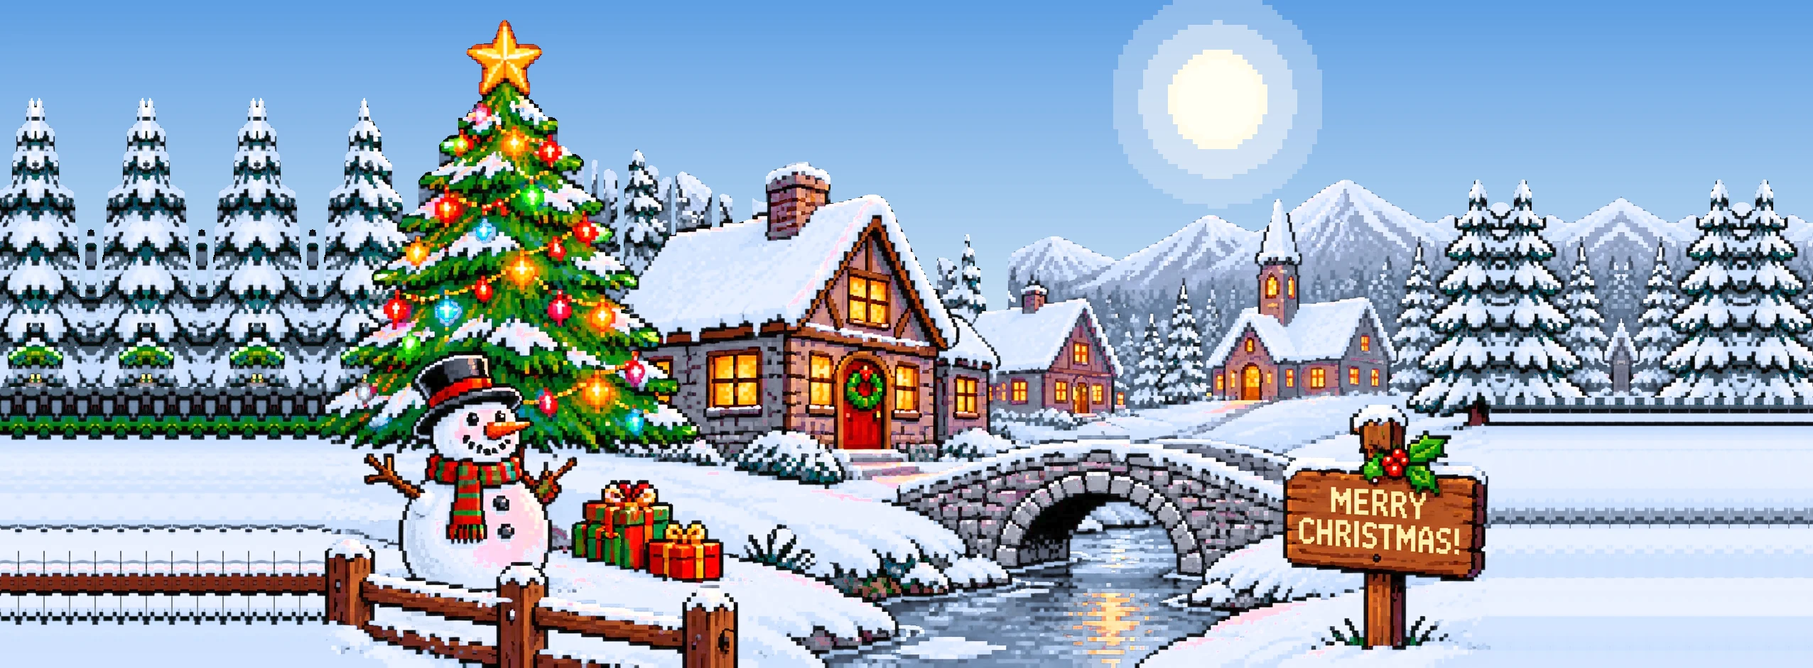
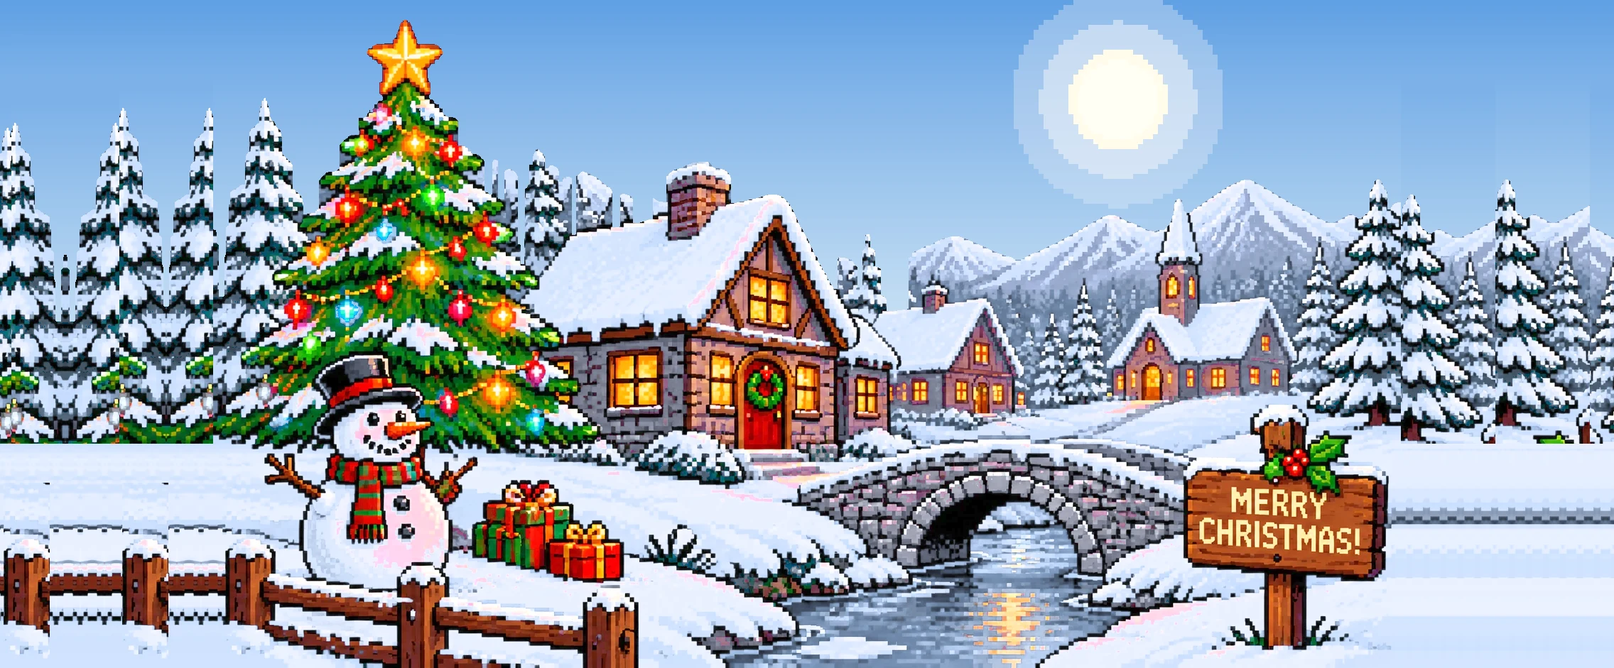
Narrower, less uniform woods and fence at the sides, no dark line on the right, more room above the text in landscape

diff --git a/assets/village/spots.js b/assets/village/spots.js
@@ -1,1 +1,1 @@
-window.SPOTS={"bulbs":[[724,202,"#fcad0d"],[764,212,"#f61e0b"],[627,281,"#f71108"],[629,296,"#fa5c0b"],[708,296,"#f6250f"],[819,323,"#f52107"],[832,328,"#f91c05"],[592,359,"#f9b40f"],[694,353,"#5991f2"],[787,356,"#f41b19"],[733,383,"#fcb20d"],[687,409,"#f51804"],[677,411,"#fd5e1a"],[887,421,"#8193f9"],[681,417,"#f71403"],[558,439,"#f71806"],[833,427,"#fcc51b"],[847,446,"#faa10b"],[780,440,"#ec104f"],[796,438,"#f31235"],[847,469,"#f7ab1b"],[717,481,"#7287f5"],[934,514,"#f5b317"],[839,551,"#fbae0e"],[874,526,"#5fa3ef"],[664,540,"#f43901"],[934,560,"#f5ab11"],[778,570,"#f00b0b"],[483,579,"#7593f8"],[536,589,"#36a6f3"],[708,601,"#f6560b"]],"windows":[[571,333,21,36],[1785,391,12,25],[1814,391,6,24],[1197,395,21,24],[1226,396,19,28],[1197,423,21,30],[1226,428,18,27],[1917,475,8,19],[1756,480,6,15],[1514,486,15,25],[1039,501,25,31],[1009,502,23,31],[1143,502,25,30],[1132,515,6,12],[1250,515,35,29],[1754,517,18,28],[1847,521,16,23],[1901,520,11,21],[1931,521,9,22],[1733,523,5,22],[1812,522,7,22],[1783,526,6,14],[1714,529,7,19],[1114,533,6,18],[1348,535,9,18],[1362,537,9,17],[1039,539,25,31],[1128,539,39,30],[1428,539,15,25],[1487,539,13,24],[1010,540,22,30],[1411,541,4,23],[1537,543,13,22],[1510,547,7,18],[1262,550,22,27],[1573,555,8,15],[1348,558,9,25],[1362,559,13,26]],"stars":[[486,22,5],[752,22,4],[853,22,4],[928,25,10],[951,21,3],[1206,28,15],[1329,28,15],[1442,22,5],[1559,22,4],[1593,26,10],[1956,22,5],[2060,27,14],[797,28,14],[558,32,15],[634,28,5],[1035,32,13],[1384,28,4],[1951,27,4],[1960,27,4],[1137,34,13],[1507,33,13],[983,45,6],[1090,45,5],[1405,45,4],[1412,51,4],[2018,56,14],[836,57,5],[829,61,4],[535,63,5],[787,64,6],[1011,70,3],[665,71,3],[1254,77,14],[1464,77,14],[613,77,4],[1975,91,13],[1398,105,14],[2034,106,5],[1270,113,5],[1512,118,6],[628,120,7],[512,137,7],[1331,138,13],[1975,143,6],[1453,146,7],[1933,155,14],[1206,155,6],[1250,154,6],[522,166,5],[928,175,12],[967,172,5],[1524,173,5],[529,177,3],[854,178,6],[949,186,5],[537,190,9],[896,199,22],[575,202,4],[796,206,3],[1862,220,6],[1223,221,4],[908,225,5],[1019,226,6],[1479,227,6],[550,229,3],[1015,231,5],[553,237,5],[588,236,5],[2079,245,17],[964,242,4],[1034,242,3],[2043,243,5],[1558,252,11],[1996,256,5],[2072,261,4],[1002,268,4],[1010,268,5],[1236,274,5],[2015,276,5],[2064,277,7],[1798,278,5],[566,283,9],[1008,281,5],[1201,279,5],[1245,279,3],[1841,279,4],[1011,286,5],[1614,287,6],[581,298,4],[2046,301,8],[1309,308,9],[1693,304,4],[1049,309,6],[1723,309,4],[1412,316,6],[1560,316,5],[1737,314,4],[1778,321,7],[1361,324,10],[1565,322,6],[1749,320,5],[1652,327,4],[1493,333,5],[1365,335,5],[1507,339,4],[1520,344,5],[1619,344,4],[1533,350,5],[1286,356,5],[1315,357,7],[1373,357,6],[1547,356,6],[1592,356,4],[1567,363,3],[1292,368,4],[1316,370,7],[1347,370,6],[1381,386,9],[1410,396,4],[1386,405,15],[1417,413,6],[1389,424,6]],"water":[[1548,714],[1555,714],[1562,714],[1569,714],[1576,714],[1583,714],[1590,714],[1534,721],[1541,721],[1548,721],[1555,721],[1562,721],[1569,721],[1576,721],[1583,721],[1590,721],[1597,721],[1527,728],[1534,728],[1541,728],[1548,728],[1555,728],[1562,728],[1569,728],[1576,728],[1583,728],[1590,728],[1597,728],[1604,728],[1611,728],[1527,735],[1534,735],[1541,735],[1548,735],[1555,735],[1562,735],[1569,735],[1576,735],[1583,735],[1590,735],[1597,735],[1604,735],[1611,735],[1618,735],[1520,742],[1527,742],[1534,742],[1541,742],[1548,742],[1618,742],[1625,742],[1506,749],[1541,749],[1548,749],[1555,749],[1562,749],[1569,749],[1576,749],[1583,749],[1590,749],[1597,749],[1604,749],[1611,749],[1618,749],[1625,749],[1632,749],[1639,749],[1464,756],[1513,756],[1520,756],[1527,756],[1534,756],[1541,756],[1548,756],[1555,756],[1562,756],[1569,756],[1576,756],[1583,756],[1590,756],[1597,756],[1604,756],[1611,756],[1618,756],[1625,756],[1632,756],[1639,756],[1499,763],[1506,763],[1513,763],[1520,763],[1527,763],[1534,763],[1541,763],[1548,763],[1555,763],[1562,763],[1569,763],[1576,763],[1583,763],[1590,763],[1597,763],[1604,763],[1611,763],[1618,763],[1625,763],[1632,763],[1639,763],[1646,763],[1464,770],[1478,770],[1485,770],[1499,770],[1506,770],[1513,770],[1520,770],[1527,770],[1534,770],[1541,770],[1548,770],[1555,770],[1562,770],[1569,770],[1576,770],[1583,770],[1590,770],[1597,770],[1604,770],[1611,770],[1618,770],[1625,770],[1632,770],[1639,770],[1646,770],[1674,770],[1681,770],[1436,777],[1443,777],[1450,777],[1457,777],[1464,777],[1471,777],[1492,777],[1499,777],[1506,777],[1513,777],[1520,777],[1527,777],[1534,777],[1541,777],[1548,777],[1555,777],[1562,777],[1583,777],[1590,777],[1597,777],[1604,777],[1611,777],[1618,777],[1625,777],[1632,777],[1639,777],[1646,777],[1653,777],[1667,777],[1695,777],[1415,784],[1422,784],[1429,784],[1436,784],[1443,784],[1450,784],[1457,784],[1464,784],[1471,784],[1485,784],[1492,784],[1499,784],[1506,784],[1513,784],[1520,784],[1527,784],[1534,784],[1541,784],[1548,784],[1555,784],[1562,784],[1597,784],[1604,784],[1611,784],[1618,784],[1625,784],[1632,784],[1639,784],[1646,784],[1653,784],[1702,784],[1709,784],[1394,791],[1401,791],[1408,791],[1415,791],[1422,791],[1429,791],[1443,791],[1471,791],[1478,791],[1485,791],[1492,791],[1499,791],[1506,791],[1513,791],[1520,791],[1527,791],[1534,791],[1541,791],[1548,791],[1555,791],[1562,791],[1569,791],[1576,791],[1583,791],[1590,791],[1597,791],[1604,791],[1611,791],[1618,791],[1625,791],[1632,791],[1639,791],[1646,791],[1653,791],[1674,791],[1681,791],[1688,791],[1702,791],[1380,798],[1387,798],[1394,798],[1401,798],[1408,798],[1443,798],[1450,798],[1457,798],[1464,798],[1471,798],[1478,798],[1499,798],[1506,798],[1513,798],[1520,798],[1527,798],[1534,798],[1541,798],[1548,798],[1583,798],[1590,798],[1597,798],[1604,798],[1611,798],[1618,798],[1625,798],[1632,798],[1639,798],[1646,798],[1653,798],[1667,798],[1681,798],[1688,798],[1709,798],[1716,798],[1723,798],[1366,805],[1373,805],[1380,805],[1387,805],[1394,805],[1401,805],[1408,805],[1415,805],[1422,805],[1429,805],[1436,805],[1443,805],[1450,805],[1457,805],[1464,805],[1471,805],[1478,805],[1485,805],[1492,805],[1499,805],[1506,805],[1513,805],[1520,805],[1527,805],[1534,805],[1541,805],[1548,805],[1555,805],[1562,805],[1569,805],[1576,805],[1583,805],[1590,805],[1597,805],[1604,805],[1611,805],[1618,805],[1625,805],[1632,805],[1639,805],[1646,805],[1653,805],[1674,805],[1681,805],[1688,805],[1702,805],[1709,805],[1716,805],[1723,805],[1352,812],[1359,812],[1366,812],[1373,812],[1380,812],[1387,812],[1394,812],[1401,812],[1408,812],[1415,812],[1429,812],[1436,812],[1443,812],[1450,812],[1457,812],[1464,812],[1492,812],[1499,812],[1513,812],[1520,812],[1527,812],[1534,812],[1541,812],[1548,812],[1555,812],[1562,812],[1569,812],[1576,812],[1583,812],[1590,812],[1597,812],[1604,812],[1611,812],[1618,812],[1625,812],[1639,812],[1646,812],[1653,812],[1660,812],[1667,812],[1674,812],[1681,812],[1688,812],[1695,812],[1702,812],[1709,812],[1716,812],[1723,812],[1338,819],[1345,819],[1352,819],[1359,819],[1373,819],[1380,819],[1387,819],[1401,819],[1408,819],[1429,819],[1436,819],[1443,819],[1450,819],[1457,819],[1464,819],[1471,819],[1478,819],[1485,819],[1492,819],[1499,819],[1506,819],[1513,819],[1520,819],[1527,819],[1534,819],[1541,819],[1548,819],[1555,819],[1562,819],[1569,819],[1576,819],[1583,819],[1590,819],[1597,819],[1604,819],[1611,819],[1618,819],[1625,819],[1632,819],[1639,819],[1646,819],[1660,819],[1667,819],[1674,819],[1681,819],[1688,819],[1702,819],[1709,819],[1716,819],[1723,819],[1408,826],[1415,826],[1422,826],[1429,826],[1436,826],[1443,826],[1450,826],[1471,826],[1478,826],[1485,826],[1492,826],[1499,826],[1513,826],[1520,826],[1527,826],[1534,826],[1541,826],[1548,826],[1555,826],[1562,826],[1569,826],[1576,826],[1583,826],[1590,826],[1597,826],[1604,826],[1611,826],[1618,826],[1625,826],[1632,826],[1639,826],[1646,826],[1653,826],[1660,826],[1667,826],[1674,826],[1681,826],[1688,826],[1702,826],[1716,826],[1723,826],[1317,833],[1345,833],[1352,833],[1359,833],[1366,833],[1373,833],[1380,833],[1387,833],[1394,833],[1401,833],[1408,833],[1415,833],[1422,833],[1429,833],[1436,833],[1443,833],[1450,833],[1457,833],[1464,833],[1471,833],[1478,833],[1485,833],[1492,833],[1499,833],[1506,833],[1513,833],[1520,833],[1527,833],[1534,833],[1541,833],[1548,833],[1555,833],[1562,833],[1569,833],[1576,833],[1583,833],[1590,833],[1597,833],[1604,833],[1611,833],[1618,833],[1625,833],[1632,833],[1639,833],[1646,833],[1653,833],[1660,833],[1667,833],[1674,833],[1695,833],[1702,833],[1709,833],[1716,833],[1723,833],[1303,840],[1310,840],[1317,840],[1324,840],[1331,840],[1338,840],[1345,840],[1352,840],[1359,840],[1366,840],[1373,840],[1380,840],[1387,840],[1394,840],[1401,840],[1408,840],[1415,840],[1422,840],[1429,840],[1436,840],[1443,840],[1450,840],[1457,840],[1464,840],[1471,840],[1478,840],[1485,840],[1492,840],[1499,840],[1506,840],[1513,840],[1520,840],[1527,840],[1534,840],[1541,840],[1555,840],[1576,840],[1583,840],[1597,840],[1604,840],[1611,840],[1618,840],[1625,840],[1632,840],[1639,840],[1646,840],[1653,840],[1660,840],[1681,840],[1688,840],[1695,840],[1702,840],[1709,840],[1716,840],[1723,840],[1730,840],[1289,847],[1296,847],[1303,847],[1310,847],[1317,847],[1324,847],[1331,847],[1338,847],[1345,847],[1352,847],[1359,847],[1366,847],[1373,847],[1380,847],[1387,847],[1394,847],[1401,847],[1408,847],[1415,847],[1422,847],[1429,847],[1436,847],[1443,847],[1450,847],[1457,847],[1464,847],[1471,847],[1478,847],[1485,847],[1492,847],[1499,847],[1506,847],[1513,847],[1520,847],[1527,847],[1555,847],[1562,847],[1569,847],[1576,847],[1583,847],[1590,847],[1597,847],[1604,847],[1611,847],[1618,847],[1625,847],[1632,847],[1639,847],[1653,847],[1667,847],[1688,847],[1709,847],[1716,847],[1723,847],[1289,854],[1296,854],[1303,854],[1310,854],[1317,854],[1324,854],[1331,854],[1338,854],[1345,854],[1352,854],[1359,854],[1366,854],[1373,854],[1380,854],[1387,854],[1394,854],[1401,854],[1408,854],[1415,854],[1422,854],[1429,854],[1436,854],[1443,854],[1450,854],[1457,854],[1464,854],[1471,854],[1478,854],[1485,854],[1492,854],[1499,854],[1506,854],[1513,854],[1520,854],[1527,854],[1534,854],[1541,854],[1548,854],[1562,854],[1604,854],[1611,854],[1618,854],[1625,854],[1632,854],[1639,854],[1646,854],[1653,854],[1660,854],[1667,854],[1674,854],[1681,854],[1688,854],[1702,854],[1709,854],[1289,861],[1296,861],[1303,861],[1310,861],[1317,861],[1324,861],[1331,861],[1338,861],[1345,861],[1352,861],[1359,861],[1366,861],[1373,861],[1380,861],[1387,861],[1394,861],[1401,861],[1408,861],[1415,861],[1422,861],[1429,861],[1436,861],[1443,861],[1450,861],[1457,861],[1464,861],[1471,861],[1478,861],[1485,861],[1492,861],[1499,861],[1506,861],[1513,861],[1520,861],[1527,861],[1534,861],[1541,861],[1555,861],[1562,861],[1576,861],[1604,861],[1611,861],[1618,861],[1625,861],[1632,861],[1639,861],[1646,861],[1653,861],[1660,861],[1667,861],[1674,861],[1681,861],[1688,861],[1695,861],[1702,861],[1709,861],[1716,861],[1723,861],[1730,861],[1289,868],[1296,868],[1303,868],[1310,868],[1317,868],[1324,868],[1331,868],[1338,868],[1345,868],[1352,868],[1359,868],[1366,868],[1373,868],[1380,868],[1387,868],[1394,868],[1401,868],[1408,868],[1415,868],[1422,868],[1429,868],[1436,868],[1443,868],[1450,868],[1457,868],[1464,868],[1471,868],[1478,868],[1485,868],[1492,868],[1499,868],[1506,868],[1513,868],[1520,868],[1527,868],[1534,868],[1541,868],[1548,868],[1569,868],[1583,868],[1590,868],[1597,868],[1604,868],[1611,868],[1625,868],[1632,868],[1639,868],[1646,868],[1653,868],[1660,868],[1667,868],[1674,868],[1681,868],[1688,868],[1695,868],[1702,868],[1709,868],[1716,868],[1723,868],[1282,875],[1289,875],[1296,875],[1303,875],[1310,875],[1317,875],[1324,875],[1331,875],[1338,875],[1345,875],[1352,875],[1359,875],[1366,875],[1373,875],[1380,875],[1387,875],[1394,875],[1401,875],[1408,875],[1415,875],[1422,875],[1429,875],[1436,875],[1443,875],[1450,875],[1457,875],[1464,875],[1471,875],[1478,875],[1485,875],[1492,875],[1499,875],[1506,875],[1513,875],[1520,875],[1604,875],[1611,875],[1618,875],[1625,875],[1632,875],[1639,875],[1646,875],[1653,875],[1660,875],[1667,875],[1674,875],[1681,875],[1688,875],[1695,875],[1702,875],[1709,875],[1282,882],[1289,882],[1296,882],[1303,882],[1310,882],[1317,882],[1324,882],[1331,882],[1338,882],[1345,882],[1352,882],[1359,882],[1366,882],[1373,882],[1380,882],[1387,882],[1394,882],[1401,882],[1408,882],[1415,882],[1422,882],[1429,882],[1436,882],[1443,882],[1450,882],[1457,882],[1464,882],[1471,882],[1478,882],[1485,882],[1492,882],[1499,882],[1506,882],[1513,882],[1520,882],[1527,882],[1555,882],[1562,882],[1583,882],[1604,882],[1611,882],[1618,882],[1625,882],[1632,882],[1639,882],[1646,882],[1653,882],[1660,882],[1667,882],[1674,882],[1681,882],[1688,882],[1695,882],[1702,882],[1730,882],[1282,889],[1289,889],[1303,889],[1310,889],[1317,889],[1324,889],[1331,889],[1338,889],[1345,889],[1352,889],[1359,889],[1366,889],[1373,889],[1380,889],[1387,889],[1394,889],[1401,889],[1408,889],[1415,889],[1422,889],[1429,889],[1436,889],[1443,889],[1450,889],[1457,889],[1464,889],[1471,889],[1478,889],[1485,889],[1492,889],[1499,889],[1506,889],[1513,889],[1520,889],[1527,889],[1534,889],[1541,889],[1548,889],[1562,889],[1583,889],[1590,889],[1597,889],[1604,889],[1611,889],[1618,889],[1625,889],[1632,889],[1639,889],[1646,889],[1653,889],[1660,889],[1667,889],[1674,889],[1681,889],[1688,889],[1702,889],[1723,889],[1730,889],[1275,896],[1282,896],[1289,896],[1296,896],[1303,896],[1310,896],[1317,896],[1324,896],[1331,896],[1338,896],[1345,896],[1352,896],[1359,896],[1366,896],[1373,896],[1380,896],[1387,896],[1394,896],[1401,896],[1408,896],[1415,896],[1422,896],[1429,896],[1436,896],[1443,896],[1450,896],[1457,896],[1464,896],[1471,896],[1478,896],[1485,896],[1492,896],[1499,896],[1513,896],[1520,896],[1527,896],[1534,896],[1548,896],[1569,896],[1583,896],[1590,896],[1597,896],[1604,896],[1611,896],[1618,896],[1625,896],[1632,896],[1639,896],[1646,896],[1653,896],[1660,896],[1667,896],[1695,896],[1702,896],[1709,896],[1716,896],[1723,896],[1730,896],[1275,903],[1282,903],[1289,903],[1296,903],[1303,903],[1310,903],[1317,903],[1324,903],[1331,903],[1338,903],[1345,903],[1352,903],[1359,903],[1366,903],[1373,903],[1380,903],[1387,903],[1394,903],[1401,903],[1408,903],[1415,903],[1422,903],[1429,903],[1436,903],[1443,903],[1450,903],[1457,903],[1464,903],[1471,903],[1478,903],[1485,903],[1492,903],[1499,903],[1506,903],[1513,903],[1527,903],[1548,903],[1562,903],[1569,903],[1583,903],[1590,903],[1597,903],[1604,903],[1611,903],[1618,903],[1625,903],[1632,903],[1639,903],[1646,903],[1681,903],[1709,903],[1716,903],[1723,903],[1730,903],[1275,910],[1282,910],[1289,910],[1296,910],[1303,910],[1310,910],[1317,910],[1324,910],[1331,910],[1338,910],[1345,910],[1352,910],[1359,910],[1366,910],[1373,910],[1380,910],[1387,910],[1394,910],[1401,910],[1408,910],[1415,910],[1422,910],[1429,910],[1436,910],[1443,910],[1450,910],[1457,910],[1464,910],[1471,910],[1478,910],[1485,910],[1492,910],[1499,910],[1506,910],[1513,910],[1520,910],[1527,910],[1534,910],[1541,910],[1548,910],[1562,910],[1569,910],[1576,910],[1583,910],[1604,910],[1611,910],[1618,910],[1625,910],[1632,910],[1646,910],[1653,910],[1674,910],[1688,910],[1695,910],[1702,910],[1709,910],[1716,910],[1723,910],[1730,910],[1737,910],[1268,917],[1275,917],[1282,917],[1289,917],[1296,917],[1303,917],[1310,917],[1317,917],[1324,917],[1331,917],[1338,917],[1345,917],[1352,917],[1359,917],[1366,917],[1373,917],[1380,917],[1387,917],[1394,917],[1401,917],[1408,917],[1415,917],[1422,917],[1429,917],[1436,917],[1443,917],[1450,917],[1457,917],[1464,917],[1471,917],[1478,917],[1485,917],[1492,917],[1499,917],[1506,917],[1513,917],[1520,917],[1527,917],[1534,917],[1541,917],[1583,917],[1590,917],[1597,917],[1604,917],[1611,917],[1618,917],[1632,917],[1646,917],[1653,917],[1660,917],[1667,917],[1674,917],[1681,917],[1688,917],[1695,917],[1702,917],[1709,917],[1723,917],[1730,917],[1737,917],[1268,924],[1275,924],[1282,924],[1289,924],[1296,924],[1303,924],[1310,924],[1317,924],[1324,924],[1331,924],[1338,924],[1345,924],[1352,924],[1359,924],[1366,924],[1373,924],[1380,924],[1387,924],[1394,924],[1401,924],[1408,924],[1415,924],[1422,924],[1429,924],[1436,924],[1443,924],[1450,924],[1457,924],[1464,924],[1471,924],[1478,924],[1485,924],[1492,924],[1499,924],[1506,924],[1513,924],[1520,924],[1527,924],[1534,924],[1541,924],[1548,924],[1555,924],[1562,924],[1569,924],[1576,924],[1583,924],[1590,924],[1597,924],[1604,924],[1611,924],[1618,924],[1632,924],[1639,924],[1646,924],[1653,924],[1660,924],[1667,924],[1674,924],[1681,924],[1688,924],[1695,924],[1702,924],[1709,924],[1716,924],[1723,924],[1730,924],[1737,924],[1268,931],[1275,931],[1282,931],[1289,931],[1296,931],[1303,931],[1310,931],[1317,931],[1324,931],[1331,931],[1338,931],[1345,931],[1352,931],[1359,931],[1366,931],[1373,931],[1380,931],[1387,931],[1394,931],[1401,931],[1408,931],[1415,931],[1422,931],[1429,931],[1436,931],[1443,931],[1450,931],[1457,931],[1464,931],[1471,931],[1478,931],[1485,931],[1492,931],[1499,931],[1506,931],[1513,931],[1520,931],[1527,931],[1534,931],[1541,931],[1548,931],[1555,931],[1583,931],[1590,931],[1597,931],[1604,931],[1611,931],[1625,931],[1632,931],[1639,931],[1646,931],[1653,931],[1660,931],[1667,931],[1674,931],[1681,931],[1688,931],[1695,931],[1702,931],[1709,931],[1716,931],[1723,931],[1730,931],[1737,931],[1261,938],[1268,938],[1275,938],[1282,938],[1289,938],[1296,938],[1303,938],[1310,938],[1317,938],[1324,938],[1331,938],[1338,938],[1345,938],[1352,938],[1359,938],[1366,938],[1373,938],[1380,938],[1387,938],[1394,938],[1401,938],[1408,938],[1415,938],[1422,938],[1429,938],[1436,938],[1443,938],[1450,938],[1457,938],[1464,938],[1471,938],[1478,938],[1485,938],[1492,938],[1499,938],[1506,938],[1513,938],[1520,938],[1527,938],[1534,938],[1541,938],[1548,938],[1555,938],[1562,938],[1576,938],[1583,938],[1590,938],[1597,938],[1618,938],[1625,938],[1632,938],[1639,938],[1646,938],[1653,938],[1660,938],[1667,938],[1674,938],[1681,938],[1688,938],[1695,938],[1702,938],[1709,938],[1716,938],[1723,938],[1730,938],[1737,938]],"chimneys":[[1123,232],[1454,404]],"moon":[1714,141],"size":[2552,941]};
+window.SPOTS={"bulbs":[[584,202,"#fcad0d"],[624,212,"#f61e0b"],[487,281,"#f71108"],[489,296,"#fa5c0b"],[568,296,"#f6250f"],[679,323,"#f52107"],[692,328,"#f91c05"],[452,359,"#f9b40f"],[554,353,"#5991f2"],[647,356,"#f41b19"],[593,383,"#fcb20d"],[547,409,"#f51804"],[537,411,"#fd5e1a"],[747,421,"#8193f9"],[541,417,"#f71403"],[418,439,"#f71806"],[693,427,"#fcc51b"],[707,446,"#faa10b"],[640,440,"#ec104f"],[656,438,"#f31235"],[707,469,"#f7ab1b"],[577,481,"#7287f5"],[794,514,"#f5b317"],[699,551,"#fbae0e"],[734,526,"#5fa3ef"],[524,540,"#f43901"],[794,560,"#f5ab11"],[638,570,"#f00b0b"],[343,579,"#7593f8"],[396,589,"#36a6f3"],[568,601,"#f6560b"]],"windows":[[431,333,21,36],[1645,391,12,25],[1674,391,6,24],[1057,395,21,24],[1086,396,19,28],[1057,423,21,30],[1086,428,18,27],[1777,475,8,19],[1616,480,6,15],[1374,486,15,25],[899,501,25,31],[869,502,23,31],[1003,502,25,30],[992,515,6,12],[1110,515,35,29],[1614,517,18,28],[1707,521,16,23],[1761,520,11,21],[1791,521,9,22],[1593,523,5,22],[1672,522,7,22],[1643,526,6,14],[1574,529,7,19],[974,533,6,18],[1208,535,9,18],[1222,537,9,17],[899,539,25,31],[988,539,39,30],[1288,539,15,25],[1347,539,13,24],[870,540,22,30],[1271,541,4,23],[1397,543,13,22],[1370,547,7,18],[1122,550,22,27],[1433,555,8,15],[1208,558,9,25],[1222,559,13,26]],"stars":[[346,22,5],[612,22,4],[713,22,4],[788,25,10],[811,21,3],[1066,28,15],[1189,28,15],[1302,22,5],[1419,22,4],[1453,26,10],[1816,22,5],[1920,27,14],[657,28,14],[418,32,15],[494,28,5],[895,32,13],[1244,28,4],[1811,27,4],[1820,27,4],[997,34,13],[1367,33,13],[843,45,6],[950,45,5],[1265,45,4],[1272,51,4],[1878,56,14],[696,57,5],[689,61,4],[395,63,5],[647,64,6],[871,70,3],[525,71,3],[1114,77,14],[1324,77,14],[473,77,4],[1835,91,13],[1258,105,14],[1894,106,5],[1130,113,5],[1372,118,6],[488,120,7],[372,137,7],[1191,138,13],[1835,143,6],[1313,146,7],[1793,155,14],[1066,155,6],[1110,154,6],[382,166,5],[788,175,12],[827,172,5],[1384,173,5],[389,177,3],[714,178,6],[809,186,5],[397,190,9],[756,199,22],[435,202,4],[656,206,3],[1722,220,6],[1083,221,4],[768,225,5],[879,226,6],[1339,227,6],[410,229,3],[875,231,5],[413,237,5],[448,236,5],[1939,245,17],[824,242,4],[894,242,3],[1903,243,5],[1418,252,11],[1856,256,5],[1932,261,4],[862,268,4],[870,268,5],[1096,274,5],[1875,276,5],[1924,277,7],[1658,278,5],[426,283,9],[868,281,5],[1061,279,5],[1105,279,3],[1701,279,4],[871,286,5],[1474,287,6],[441,298,4],[1906,301,8],[1169,308,9],[1553,304,4],[909,309,6],[1583,309,4],[1272,316,6],[1420,316,5],[1597,314,4],[1638,321,7],[1221,324,10],[1425,322,6],[1609,320,5],[1512,327,4],[1353,333,5],[1225,335,5],[1367,339,4],[1380,344,5],[1479,344,4],[1393,350,5],[1146,356,5],[1175,357,7],[1233,357,6],[1407,356,6],[1452,356,4],[1427,363,3],[1152,368,4],[1176,370,7],[1207,370,6],[1241,386,9],[1270,396,4],[1246,405,15],[1277,413,6],[1249,424,6]],"water":[[1408,714],[1415,714],[1422,714],[1429,714],[1436,714],[1443,714],[1450,714],[1394,721],[1401,721],[1408,721],[1415,721],[1422,721],[1429,721],[1436,721],[1443,721],[1450,721],[1457,721],[1387,728],[1394,728],[1401,728],[1408,728],[1415,728],[1422,728],[1429,728],[1436,728],[1443,728],[1450,728],[1457,728],[1464,728],[1471,728],[1387,735],[1394,735],[1401,735],[1408,735],[1415,735],[1422,735],[1429,735],[1436,735],[1443,735],[1450,735],[1457,735],[1464,735],[1471,735],[1478,735],[1380,742],[1387,742],[1394,742],[1401,742],[1408,742],[1478,742],[1485,742],[1366,749],[1401,749],[1408,749],[1415,749],[1422,749],[1429,749],[1436,749],[1443,749],[1450,749],[1457,749],[1464,749],[1471,749],[1478,749],[1485,749],[1492,749],[1499,749],[1324,756],[1373,756],[1380,756],[1387,756],[1394,756],[1401,756],[1408,756],[1415,756],[1422,756],[1429,756],[1436,756],[1443,756],[1450,756],[1457,756],[1464,756],[1471,756],[1478,756],[1485,756],[1492,756],[1499,756],[1359,763],[1366,763],[1373,763],[1380,763],[1387,763],[1394,763],[1401,763],[1408,763],[1415,763],[1422,763],[1429,763],[1436,763],[1443,763],[1450,763],[1457,763],[1464,763],[1471,763],[1478,763],[1485,763],[1492,763],[1499,763],[1506,763],[1324,770],[1338,770],[1345,770],[1359,770],[1366,770],[1373,770],[1380,770],[1387,770],[1394,770],[1401,770],[1408,770],[1415,770],[1422,770],[1429,770],[1436,770],[1443,770],[1450,770],[1457,770],[1464,770],[1471,770],[1478,770],[1485,770],[1492,770],[1499,770],[1506,770],[1534,770],[1541,770],[1296,777],[1303,777],[1310,777],[1317,777],[1324,777],[1331,777],[1352,777],[1359,777],[1366,777],[1373,777],[1380,777],[1387,777],[1394,777],[1401,777],[1408,777],[1415,777],[1422,777],[1443,777],[1450,777],[1457,777],[1464,777],[1471,777],[1478,777],[1485,777],[1492,777],[1499,777],[1506,777],[1513,777],[1527,777],[1555,777],[1275,784],[1282,784],[1289,784],[1296,784],[1303,784],[1310,784],[1317,784],[1324,784],[1331,784],[1345,784],[1352,784],[1359,784],[1366,784],[1373,784],[1380,784],[1387,784],[1394,784],[1401,784],[1408,784],[1415,784],[1422,784],[1457,784],[1464,784],[1471,784],[1478,784],[1485,784],[1492,784],[1499,784],[1506,784],[1513,784],[1562,784],[1569,784],[1254,791],[1261,791],[1268,791],[1275,791],[1282,791],[1289,791],[1303,791],[1331,791],[1338,791],[1345,791],[1352,791],[1359,791],[1366,791],[1373,791],[1380,791],[1387,791],[1394,791],[1401,791],[1408,791],[1415,791],[1422,791],[1429,791],[1436,791],[1443,791],[1450,791],[1457,791],[1464,791],[1471,791],[1478,791],[1485,791],[1492,791],[1499,791],[1506,791],[1513,791],[1534,791],[1541,791],[1548,791],[1562,791],[1240,798],[1247,798],[1254,798],[1261,798],[1268,798],[1303,798],[1310,798],[1317,798],[1324,798],[1331,798],[1338,798],[1359,798],[1366,798],[1373,798],[1380,798],[1387,798],[1394,798],[1401,798],[1408,798],[1443,798],[1450,798],[1457,798],[1464,798],[1471,798],[1478,798],[1485,798],[1492,798],[1499,798],[1506,798],[1513,798],[1527,798],[1541,798],[1548,798],[1569,798],[1576,798],[1583,798],[1226,805],[1233,805],[1240,805],[1247,805],[1254,805],[1261,805],[1268,805],[1275,805],[1282,805],[1289,805],[1296,805],[1303,805],[1310,805],[1317,805],[1324,805],[1331,805],[1338,805],[1345,805],[1352,805],[1359,805],[1366,805],[1373,805],[1380,805],[1387,805],[1394,805],[1401,805],[1408,805],[1415,805],[1422,805],[1429,805],[1436,805],[1443,805],[1450,805],[1457,805],[1464,805],[1471,805],[1478,805],[1485,805],[1492,805],[1499,805],[1506,805],[1513,805],[1534,805],[1541,805],[1548,805],[1562,805],[1569,805],[1576,805],[1583,805],[1212,812],[1219,812],[1226,812],[1233,812],[1240,812],[1247,812],[1254,812],[1261,812],[1268,812],[1275,812],[1289,812],[1296,812],[1303,812],[1310,812],[1317,812],[1324,812],[1352,812],[1359,812],[1373,812],[1380,812],[1387,812],[1394,812],[1401,812],[1408,812],[1415,812],[1422,812],[1429,812],[1436,812],[1443,812],[1450,812],[1457,812],[1464,812],[1471,812],[1478,812],[1485,812],[1499,812],[1506,812],[1513,812],[1520,812],[1527,812],[1534,812],[1541,812],[1548,812],[1555,812],[1562,812],[1569,812],[1576,812],[1583,812],[1198,819],[1205,819],[1212,819],[1219,819],[1233,819],[1240,819],[1247,819],[1261,819],[1268,819],[1289,819],[1296,819],[1303,819],[1310,819],[1317,819],[1324,819],[1331,819],[1338,819],[1345,819],[1352,819],[1359,819],[1366,819],[1373,819],[1380,819],[1387,819],[1394,819],[1401,819],[1408,819],[1415,819],[1422,819],[1429,819],[1436,819],[1443,819],[1450,819],[1457,819],[1464,819],[1471,819],[1478,819],[1485,819],[1492,819],[1499,819],[1506,819],[1520,819],[1527,819],[1534,819],[1541,819],[1548,819],[1562,819],[1569,819],[1576,819],[1583,819],[1268,826],[1275,826],[1282,826],[1289,826],[1296,826],[1303,826],[1310,826],[1331,826],[1338,826],[1345,826],[1352,826],[1359,826],[1373,826],[1380,826],[1387,826],[1394,826],[1401,826],[1408,826],[1415,826],[1422,826],[1429,826],[1436,826],[1443,826],[1450,826],[1457,826],[1464,826],[1471,826],[1478,826],[1485,826],[1492,826],[1499,826],[1506,826],[1513,826],[1520,826],[1527,826],[1534,826],[1541,826],[1548,826],[1562,826],[1576,826],[1583,826],[1177,833],[1205,833],[1212,833],[1219,833],[1226,833],[1233,833],[1240,833],[1247,833],[1254,833],[1261,833],[1268,833],[1275,833],[1282,833],[1289,833],[1296,833],[1303,833],[1310,833],[1317,833],[1324,833],[1331,833],[1338,833],[1345,833],[1352,833],[1359,833],[1366,833],[1373,833],[1380,833],[1387,833],[1394,833],[1401,833],[1408,833],[1415,833],[1422,833],[1429,833],[1436,833],[1443,833],[1450,833],[1457,833],[1464,833],[1471,833],[1478,833],[1485,833],[1492,833],[1499,833],[1506,833],[1513,833],[1520,833],[1527,833],[1534,833],[1555,833],[1562,833],[1569,833],[1576,833],[1583,833],[1163,840],[1170,840],[1177,840],[1184,840],[1191,840],[1198,840],[1205,840],[1212,840],[1219,840],[1226,840],[1233,840],[1240,840],[1247,840],[1254,840],[1261,840],[1268,840],[1275,840],[1282,840],[1289,840],[1296,840],[1303,840],[1310,840],[1317,840],[1324,840],[1331,840],[1338,840],[1345,840],[1352,840],[1359,840],[1366,840],[1373,840],[1380,840],[1387,840],[1394,840],[1401,840],[1415,840],[1436,840],[1443,840],[1457,840],[1464,840],[1471,840],[1478,840],[1485,840],[1492,840],[1499,840],[1506,840],[1513,840],[1520,840],[1541,840],[1548,840],[1555,840],[1562,840],[1569,840],[1576,840],[1583,840],[1590,840],[1149,847],[1156,847],[1163,847],[1170,847],[1177,847],[1184,847],[1191,847],[1198,847],[1205,847],[1212,847],[1219,847],[1226,847],[1233,847],[1240,847],[1247,847],[1254,847],[1261,847],[1268,847],[1275,847],[1282,847],[1289,847],[1296,847],[1303,847],[1310,847],[1317,847],[1324,847],[1331,847],[1338,847],[1345,847],[1352,847],[1359,847],[1366,847],[1373,847],[1380,847],[1387,847],[1415,847],[1422,847],[1429,847],[1436,847],[1443,847],[1450,847],[1457,847],[1464,847],[1471,847],[1478,847],[1485,847],[1492,847],[1499,847],[1513,847],[1527,847],[1548,847],[1569,847],[1576,847],[1583,847],[1149,854],[1156,854],[1163,854],[1170,854],[1177,854],[1184,854],[1191,854],[1198,854],[1205,854],[1212,854],[1219,854],[1226,854],[1233,854],[1240,854],[1247,854],[1254,854],[1261,854],[1268,854],[1275,854],[1282,854],[1289,854],[1296,854],[1303,854],[1310,854],[1317,854],[1324,854],[1331,854],[1338,854],[1345,854],[1352,854],[1359,854],[1366,854],[1373,854],[1380,854],[1387,854],[1394,854],[1401,854],[1408,854],[1422,854],[1464,854],[1471,854],[1478,854],[1485,854],[1492,854],[1499,854],[1506,854],[1513,854],[1520,854],[1527,854],[1534,854],[1541,854],[1548,854],[1562,854],[1569,854],[1149,861],[1156,861],[1163,861],[1170,861],[1177,861],[1184,861],[1191,861],[1198,861],[1205,861],[1212,861],[1219,861],[1226,861],[1233,861],[1240,861],[1247,861],[1254,861],[1261,861],[1268,861],[1275,861],[1282,861],[1289,861],[1296,861],[1303,861],[1310,861],[1317,861],[1324,861],[1331,861],[1338,861],[1345,861],[1352,861],[1359,861],[1366,861],[1373,861],[1380,861],[1387,861],[1394,861],[1401,861],[1415,861],[1422,861],[1436,861],[1464,861],[1471,861],[1478,861],[1485,861],[1492,861],[1499,861],[1506,861],[1513,861],[1520,861],[1527,861],[1534,861],[1541,861],[1548,861],[1555,861],[1562,861],[1569,861],[1576,861],[1583,861],[1590,861],[1149,868],[1156,868],[1163,868],[1170,868],[1177,868],[1184,868],[1191,868],[1198,868],[1205,868],[1212,868],[1219,868],[1226,868],[1233,868],[1240,868],[1247,868],[1254,868],[1261,868],[1268,868],[1275,868],[1282,868],[1289,868],[1296,868],[1303,868],[1310,868],[1317,868],[1324,868],[1331,868],[1338,868],[1345,868],[1352,868],[1359,868],[1366,868],[1373,868],[1380,868],[1387,868],[1394,868],[1401,868],[1408,868],[1429,868],[1443,868],[1450,868],[1457,868],[1464,868],[1471,868],[1485,868],[1492,868],[1499,868],[1506,868],[1513,868],[1520,868],[1527,868],[1534,868],[1541,868],[1548,868],[1555,868],[1562,868],[1569,868],[1576,868],[1583,868],[1142,875],[1149,875],[1156,875],[1163,875],[1170,875],[1177,875],[1184,875],[1191,875],[1198,875],[1205,875],[1212,875],[1219,875],[1226,875],[1233,875],[1240,875],[1247,875],[1254,875],[1261,875],[1268,875],[1275,875],[1282,875],[1289,875],[1296,875],[1303,875],[1310,875],[1317,875],[1324,875],[1331,875],[1338,875],[1345,875],[1352,875],[1359,875],[1366,875],[1373,875],[1380,875],[1464,875],[1471,875],[1478,875],[1485,875],[1492,875],[1499,875],[1506,875],[1513,875],[1520,875],[1527,875],[1534,875],[1541,875],[1548,875],[1555,875],[1562,875],[1569,875],[1142,882],[1149,882],[1156,882],[1163,882],[1170,882],[1177,882],[1184,882],[1191,882],[1198,882],[1205,882],[1212,882],[1219,882],[1226,882],[1233,882],[1240,882],[1247,882],[1254,882],[1261,882],[1268,882],[1275,882],[1282,882],[1289,882],[1296,882],[1303,882],[1310,882],[1317,882],[1324,882],[1331,882],[1338,882],[1345,882],[1352,882],[1359,882],[1366,882],[1373,882],[1380,882],[1387,882],[1415,882],[1422,882],[1443,882],[1464,882],[1471,882],[1478,882],[1485,882],[1492,882],[1499,882],[1506,882],[1513,882],[1520,882],[1527,882],[1534,882],[1541,882],[1548,882],[1555,882],[1562,882],[1590,882],[1142,889],[1149,889],[1163,889],[1170,889],[1177,889],[1184,889],[1191,889],[1198,889],[1205,889],[1212,889],[1219,889],[1226,889],[1233,889],[1240,889],[1247,889],[1254,889],[1261,889],[1268,889],[1275,889],[1282,889],[1289,889],[1296,889],[1303,889],[1310,889],[1317,889],[1324,889],[1331,889],[1338,889],[1345,889],[1352,889],[1359,889],[1366,889],[1373,889],[1380,889],[1387,889],[1394,889],[1401,889],[1408,889],[1422,889],[1443,889],[1450,889],[1457,889],[1464,889],[1471,889],[1478,889],[1485,889],[1492,889],[1499,889],[1506,889],[1513,889],[1520,889],[1527,889],[1534,889],[1541,889],[1548,889],[1562,889],[1583,889],[1590,889],[1135,896],[1142,896],[1149,896],[1156,896],[1163,896],[1170,896],[1177,896],[1184,896],[1191,896],[1198,896],[1205,896],[1212,896],[1219,896],[1226,896],[1233,896],[1240,896],[1247,896],[1254,896],[1261,896],[1268,896],[1275,896],[1282,896],[1289,896],[1296,896],[1303,896],[1310,896],[1317,896],[1324,896],[1331,896],[1338,896],[1345,896],[1352,896],[1359,896],[1373,896],[1380,896],[1387,896],[1394,896],[1408,896],[1429,896],[1443,896],[1450,896],[1457,896],[1464,896],[1471,896],[1478,896],[1485,896],[1492,896],[1499,896],[1506,896],[1513,896],[1520,896],[1527,896],[1555,896],[1562,896],[1569,896],[1576,896],[1583,896],[1590,896],[1135,903],[1142,903],[1149,903],[1156,903],[1163,903],[1170,903],[1177,903],[1184,903],[1191,903],[1198,903],[1205,903],[1212,903],[1219,903],[1226,903],[1233,903],[1240,903],[1247,903],[1254,903],[1261,903],[1268,903],[1275,903],[1282,903],[1289,903],[1296,903],[1303,903],[1310,903],[1317,903],[1324,903],[1331,903],[1338,903],[1345,903],[1352,903],[1359,903],[1366,903],[1373,903],[1387,903],[1408,903],[1422,903],[1429,903],[1443,903],[1450,903],[1457,903],[1464,903],[1471,903],[1478,903],[1485,903],[1492,903],[1499,903],[1506,903],[1541,903],[1569,903],[1576,903],[1583,903],[1590,903],[1135,910],[1142,910],[1149,910],[1156,910],[1163,910],[1170,910],[1177,910],[1184,910],[1191,910],[1198,910],[1205,910],[1212,910],[1219,910],[1226,910],[1233,910],[1240,910],[1247,910],[1254,910],[1261,910],[1268,910],[1275,910],[1282,910],[1289,910],[1296,910],[1303,910],[1310,910],[1317,910],[1324,910],[1331,910],[1338,910],[1345,910],[1352,910],[1359,910],[1366,910],[1373,910],[1380,910],[1387,910],[1394,910],[1401,910],[1408,910],[1422,910],[1429,910],[1436,910],[1443,910],[1464,910],[1471,910],[1478,910],[1485,910],[1492,910],[1506,910],[1513,910],[1534,910],[1548,910],[1555,910],[1562,910],[1569,910],[1576,910],[1583,910],[1590,910],[1597,910],[1128,917],[1135,917],[1142,917],[1149,917],[1156,917],[1163,917],[1170,917],[1177,917],[1184,917],[1191,917],[1198,917],[1205,917],[1212,917],[1219,917],[1226,917],[1233,917],[1240,917],[1247,917],[1254,917],[1261,917],[1268,917],[1275,917],[1282,917],[1289,917],[1296,917],[1303,917],[1310,917],[1317,917],[1324,917],[1331,917],[1338,917],[1345,917],[1352,917],[1359,917],[1366,917],[1373,917],[1380,917],[1387,917],[1394,917],[1401,917],[1443,917],[1450,917],[1457,917],[1464,917],[1471,917],[1478,917],[1492,917],[1506,917],[1513,917],[1520,917],[1527,917],[1534,917],[1541,917],[1548,917],[1555,917],[1562,917],[1569,917],[1583,917],[1590,917],[1597,917],[1128,924],[1135,924],[1142,924],[1149,924],[1156,924],[1163,924],[1170,924],[1177,924],[1184,924],[1191,924],[1198,924],[1205,924],[1212,924],[1219,924],[1226,924],[1233,924],[1240,924],[1247,924],[1254,924],[1261,924],[1268,924],[1275,924],[1282,924],[1289,924],[1296,924],[1303,924],[1310,924],[1317,924],[1324,924],[1331,924],[1338,924],[1345,924],[1352,924],[1359,924],[1366,924],[1373,924],[1380,924],[1387,924],[1394,924],[1401,924],[1408,924],[1415,924],[1422,924],[1429,924],[1436,924],[1443,924],[1450,924],[1457,924],[1464,924],[1471,924],[1478,924],[1492,924],[1499,924],[1506,924],[1513,924],[1520,924],[1527,924],[1534,924],[1541,924],[1548,924],[1555,924],[1562,924],[1569,924],[1576,924],[1583,924],[1590,924],[1597,924],[1128,931],[1135,931],[1142,931],[1149,931],[1156,931],[1163,931],[1170,931],[1177,931],[1184,931],[1191,931],[1198,931],[1205,931],[1212,931],[1219,931],[1226,931],[1233,931],[1240,931],[1247,931],[1254,931],[1261,931],[1268,931],[1275,931],[1282,931],[1289,931],[1296,931],[1303,931],[1310,931],[1317,931],[1324,931],[1331,931],[1338,931],[1345,931],[1352,931],[1359,931],[1366,931],[1373,931],[1380,931],[1387,931],[1394,931],[1401,931],[1408,931],[1415,931],[1443,931],[1450,931],[1457,931],[1464,931],[1471,931],[1485,931],[1492,931],[1499,931],[1506,931],[1513,931],[1520,931],[1527,931],[1534,931],[1541,931],[1548,931],[1555,931],[1562,931],[1569,931],[1576,931],[1583,931],[1590,931],[1597,931],[1121,938],[1128,938],[1135,938],[1142,938],[1149,938],[1156,938],[1163,938],[1170,938],[1177,938],[1184,938],[1191,938],[1198,938],[1205,938],[1212,938],[1219,938],[1226,938],[1233,938],[1240,938],[1247,938],[1254,938],[1261,938],[1268,938],[1275,938],[1282,938],[1289,938],[1296,938],[1303,938],[1310,938],[1317,938],[1324,938],[1331,938],[1338,938],[1345,938],[1352,938],[1359,938],[1366,938],[1373,938],[1380,938],[1387,938],[1394,938],[1401,938],[1408,938],[1415,938],[1422,938],[1436,938],[1443,938],[1450,938],[1457,938],[1478,938],[1485,938],[1492,938],[1499,938],[1506,938],[1513,938],[1520,938],[1527,938],[1534,938],[1541,938],[1548,938],[1555,938],[1562,938],[1569,938],[1576,938],[1583,938],[1590,938],[1597,938]],"chimneys":[[983,232],[1314,404]],"moon":[1574,141],"size":[2272,941]};

diff --git a/assets/village/village.js b/assets/village/village.js
@@ -494,7 +494,7 @@
     hctx.clearRect(0, 0, cols, rows);
     // Centred near the top, in the sky. The clock is two or three times the size, less on a
     // narrow screen.
-    var y = 3;
+    var y = sizedW > sizedH ? 6 : 3;  // a little more room above it in landscape
     lines.forEach(function (l) {
       var w = textWidth(l.text), s = 1;
       if (l.big) s = Math.max(1, Math.min(3, Math.floor((cols * 0.8) / w)));
